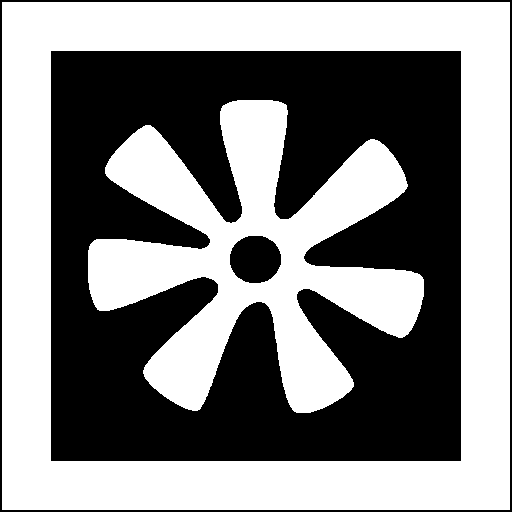
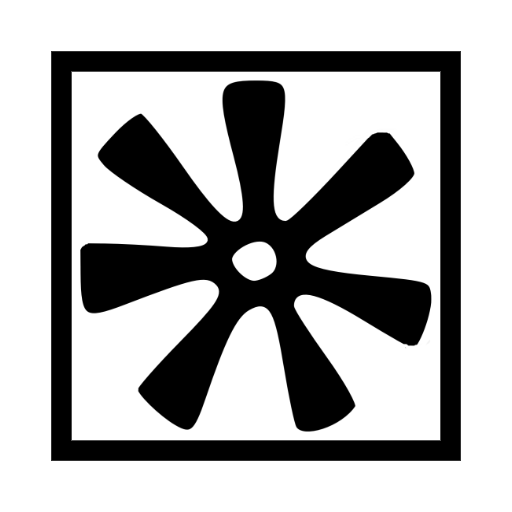
add ananse ntontan marker (.patt)

diff --git a/index.html b/index.html
@@ -70,11 +70,11 @@ function initialize()
 
 	function onResize()
 	{
-		arToolkitSource.onResize()	
-		arToolkitSource.copySizeTo(renderer.domElement)	
+		arToolkitSource.onResizeElement()	
+		arToolkitSource.copyElementSizeTo(renderer.domElement)	
 		if ( arToolkitContext.arController !== null )
 		{
-			arToolkitSource.copySizeTo(arToolkitContext.arController.canvas)	
+			arToolkitSource.copyElementSizeTo(arToolkitContext.arController.canvas)	
 		}	
 	}
 
@@ -112,7 +112,7 @@ function initialize()
 	scene.add(markerRoot1);
 	let markerControls1 = new THREEx.ArMarkerControls(arToolkitContext, markerRoot1, {
 		type : 'pattern',
-		patternUrl : "data/hiro.patt",
+		patternUrl : "data/ananse-ntontan.patt",
 		// patternUrl : "data/ananse-ntontan.patt",
 	})
 
